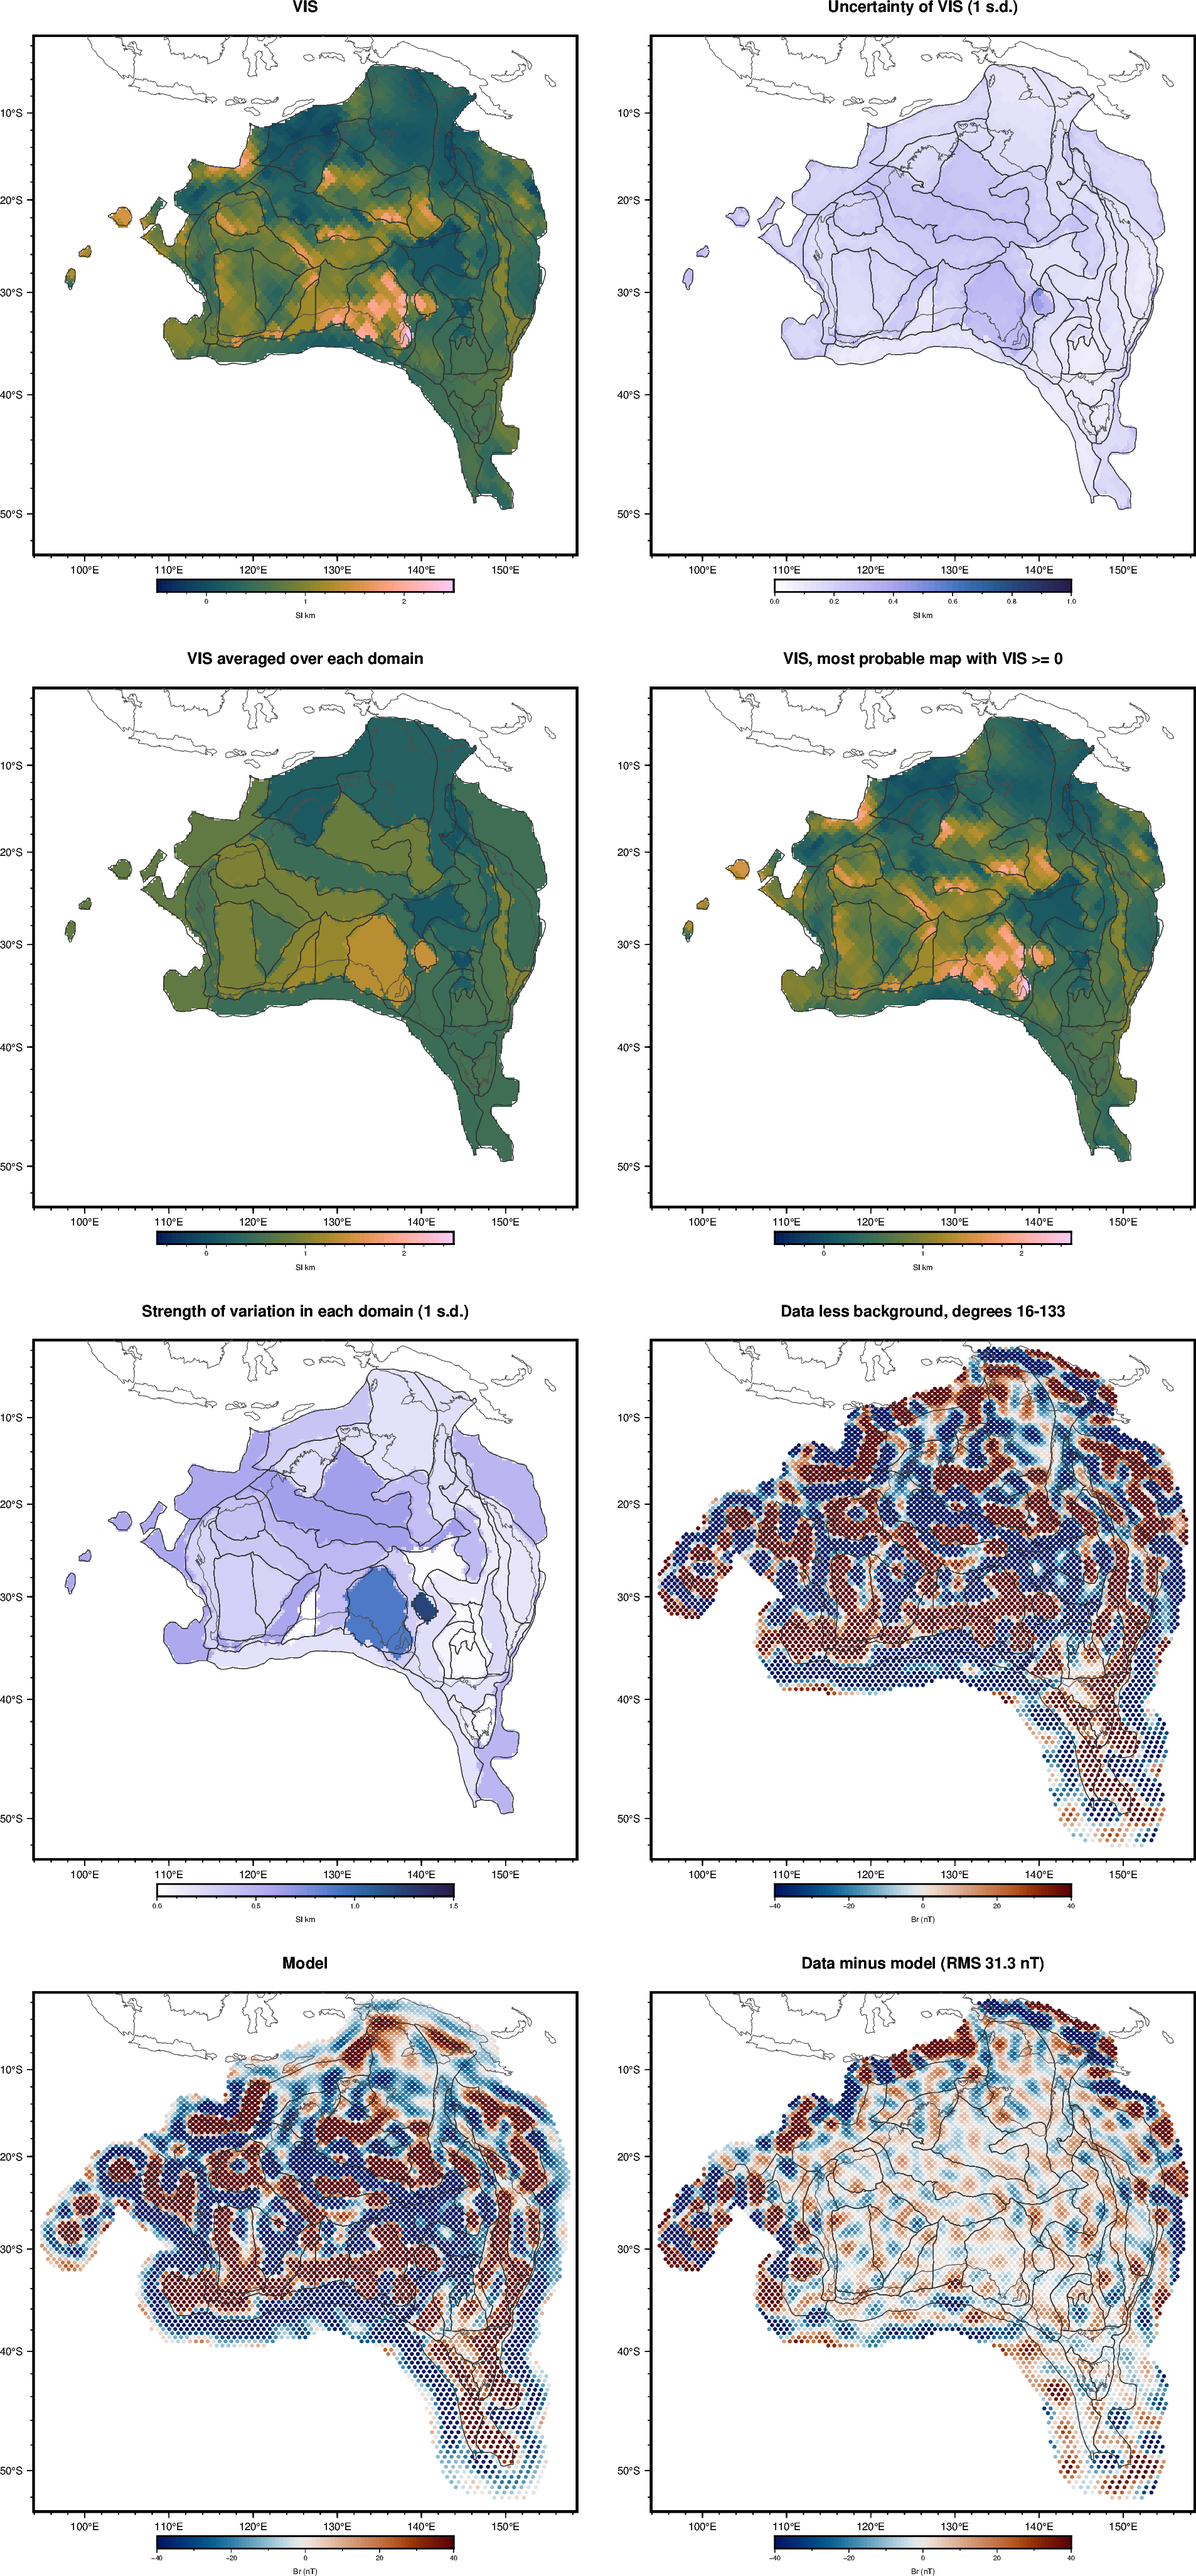
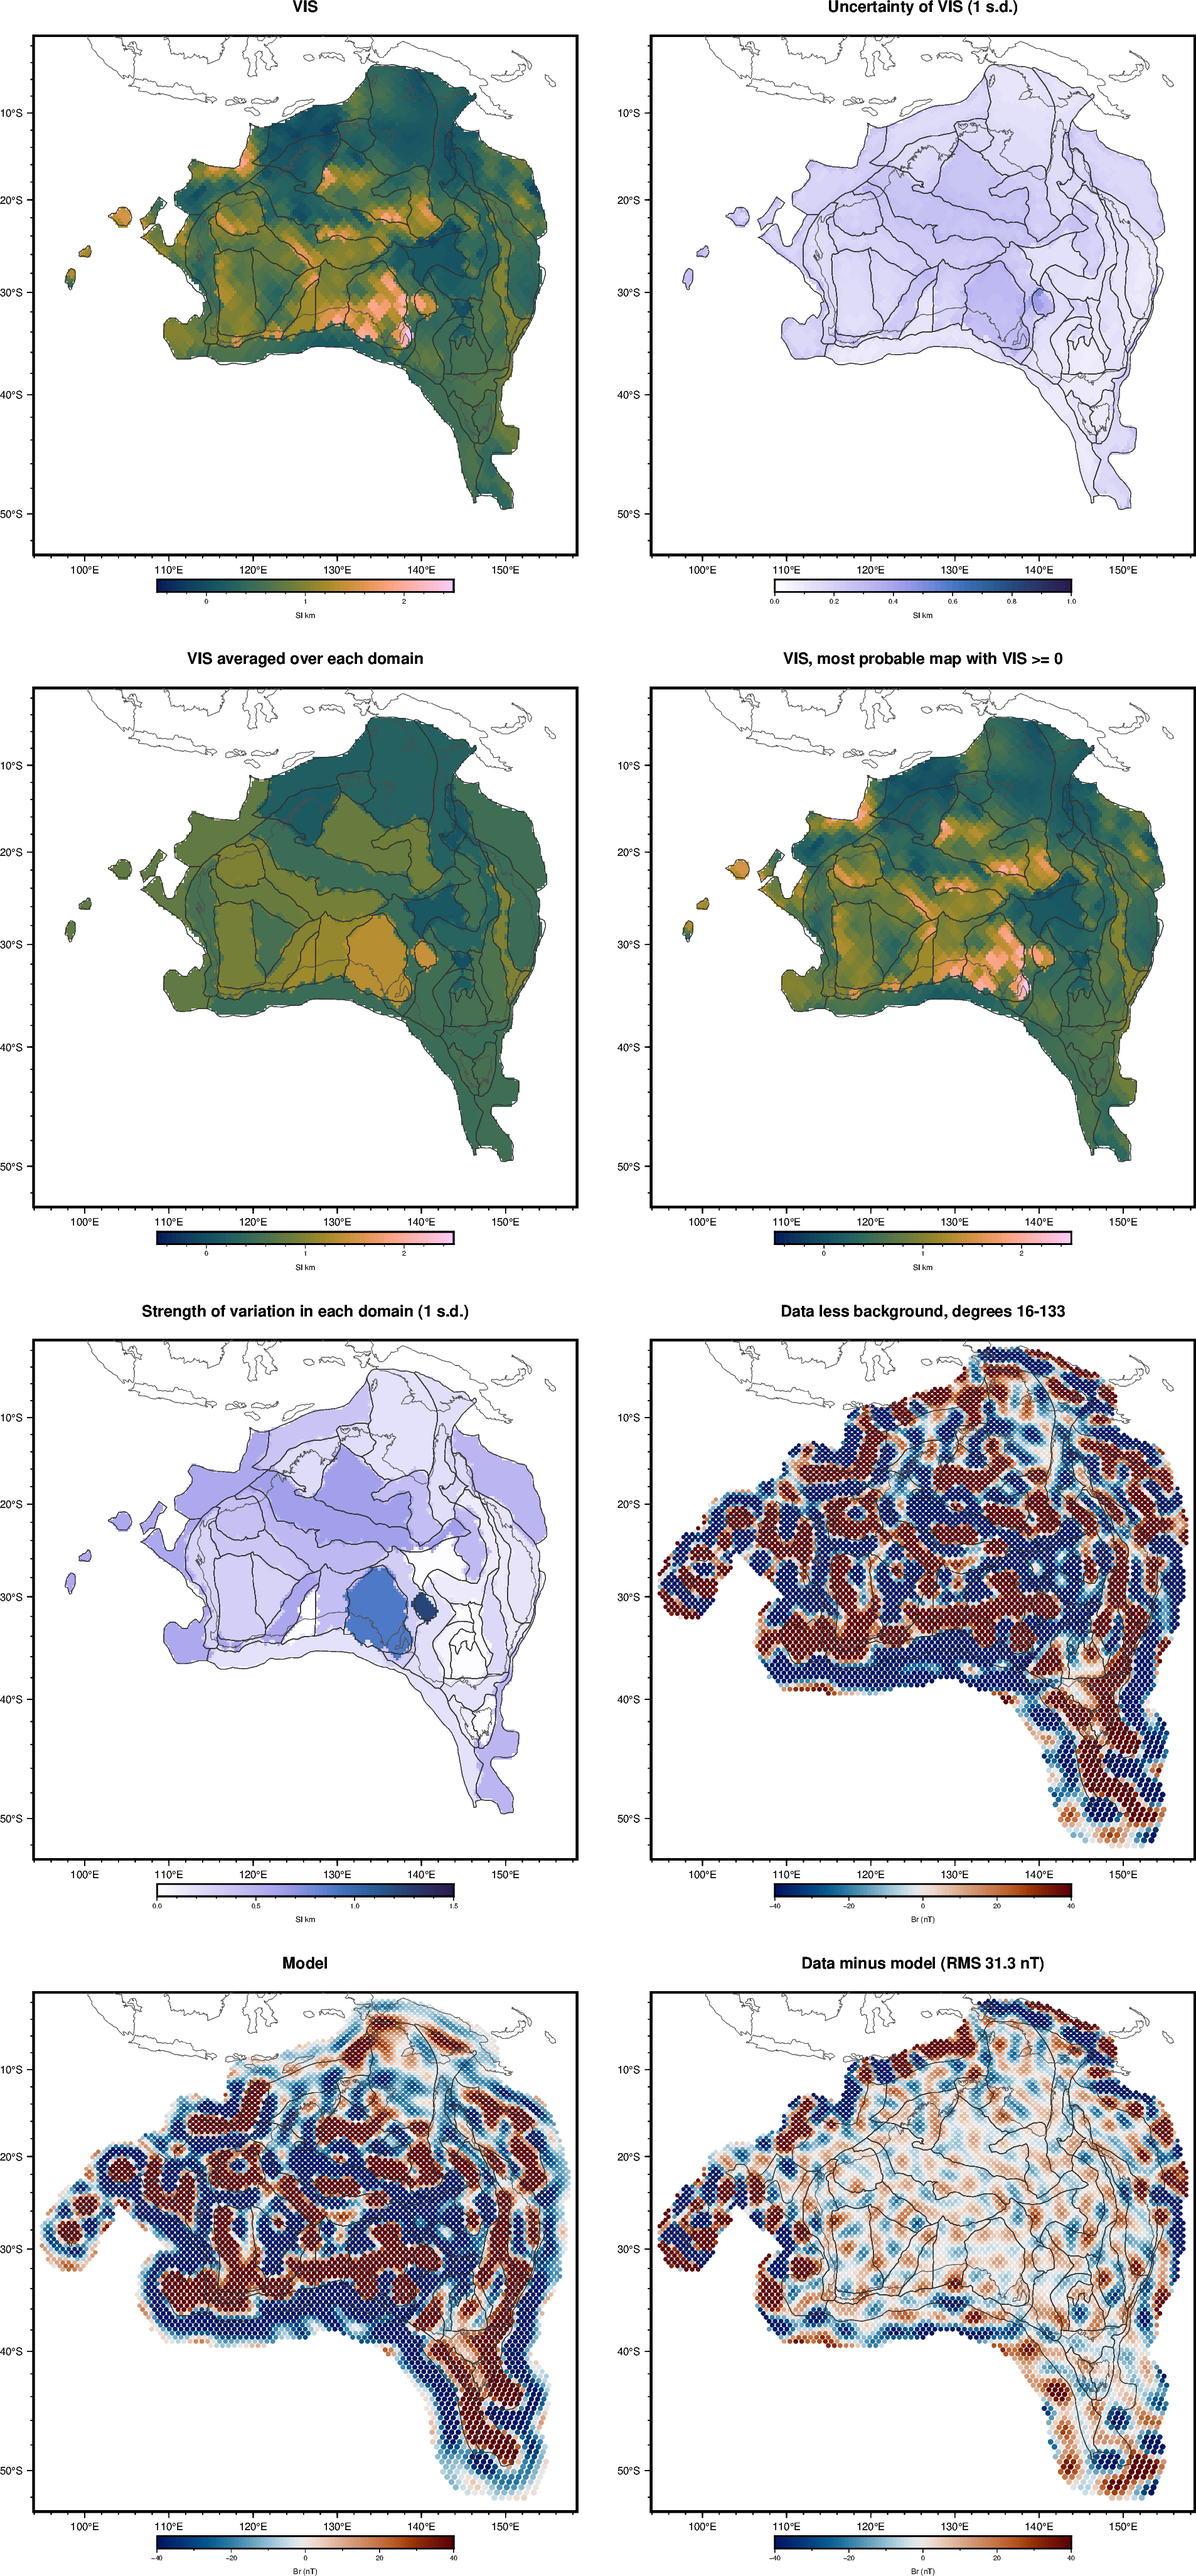
CM, PD and DF for South America, Africa and North America; figures: dots sized to the point spacing, equal-area maps at high latitudes

Changed region(s): [[0.5572, 0.8419, 0.9906, 0.9666], [0.5572, 0.5924, 0.9906, 0.7172], [0.031, 0.8419, 0.4643, 0.9666]]

diff --git a/remit/inversion/figures.py b/remit/inversion/figures.py
@@ -84,8 +84,24 @@ def standard(ds, stem):
                    (ds.model.values, f'{tag}Model', *BR_CPT, 'Br (nT)'),
                    (ds.residual.values, f'{tag}Data minus model (RMS {rms:.1f} nT)', *BR_CPT, 'Br (nT)')]
         lon = _lon180(ds.plon.values)
-        region = [float(lon.min()) - 1, float(lon.max()) + 1, float(ds.plat.min()) - 1, float(ds.plat.max()) + 1]
-        proj, width, dx, dy = 'M11c', 11, '12.5c', None
+        if lon.max() - lon.min() > 180:                 # across the dateline: longitudes 0-360
+            lon = np.mod(ds.plon.values, 360)
+        lat = ds.plat.values
+        spacing = np.radians(np.degrees(np.sqrt(4*np.pi/(12*cfg['fit']['data_nside']**2))))   # HEALPix point spacing (rad)
+        width, dx = 11, '12.5c'
+        if np.abs(lat).max() < 70:                      # Mercator
+            region = [float(lon.min()) - 1, float(lon.max()) + 1, float(lat.min()) - 1, float(lat.max()) + 1]
+            proj, dy = f'M{width}c', None
+            dot = 0.9*width*np.degrees(spacing)/(region[1] - region[0])/np.cos(np.radians(lat))
+        else:                                           # reaching high latitudes: Lambert azimuthal equal area
+            from .graph import unit
+            xyz = unit(ds.plon.values, lat)
+            c = xyz.mean(0)
+            c /= np.linalg.norm(c)
+            lon0, lat0 = np.degrees(np.arctan2(c[1], c[0])), np.degrees(np.arcsin(c[2]))
+            radius = np.degrees(np.arccos(np.clip(xyz @ c, -1, 1)).max()) + 2
+            region, proj, dy = 'g', f'A{lon0:.2f}/{lat0:.2f}/{radius:.1f}/{width}c', f'-{width + 3.0:.1f}c'
+            dot = np.full(len(lat), 0.9*(width/2)/(2*np.sin(np.radians(radius)/2))*spacing)
     else:
         lmin, lmax = int(ds.l.min()), int(ds.l.max())
         panels += [(br_map(ds, ds.data.values), f'{tag}Data less background, degrees {lmin}-{lmax}', *BR_CPT, 'Br (nT)'),
@@ -103,8 +119,8 @@ def standard(ds, stem):
         pygmt.makecpt(cmap=cmap, series=series, background=True, reverse=cmap == 'devon')
         if isinstance(g, xr.DataArray):
             fig.grdimage(g, cmap=True, nan_transparent=True)
-        else:
-            fig.plot(x=lon, y=ds.plat.values, fill=g, cmap=True, style='c0.07c')
+        else:                                        # dots as wide as the point spacing on the Mercator map
+            fig.plot(x=lon, y=ds.plat.values, fill=g, cmap=True, style='c', size=dot)
         fig.coast(shorelines='0.2p,gray30', resolution='l' if local else 'c', area_thresh=5000)
         if local and cfg['target']['area'] != 'continental_crust':
             for poly in geometry.read_outline(cfg['target']['area'])[0]:
